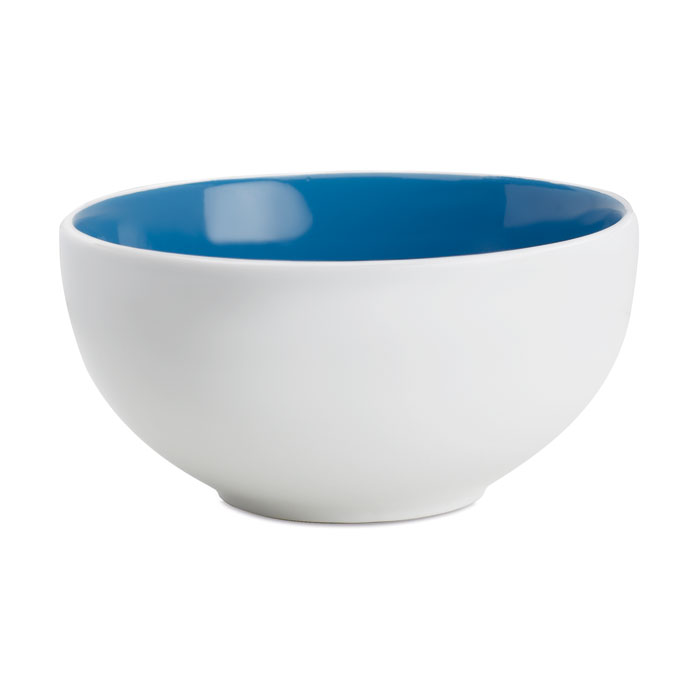
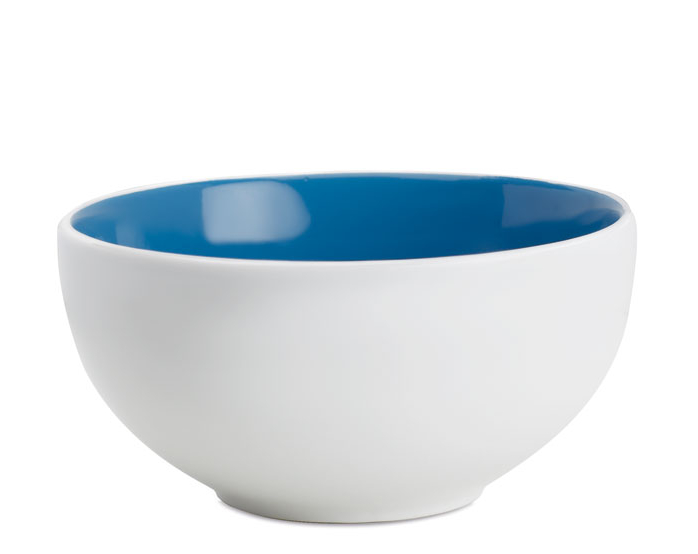
Nouvelles images, css jeu 2 pour bien voir les images. Jeu 1 ca passe sans et comme ca elles ont toutes la même forme

Changed region(s): [[0.0602, 0.2455, 0.9026, 0.9513]]

diff --git a/www/templates/secondGame.html b/www/templates/secondGame.html
@@ -39,7 +39,7 @@
         {{rooms[0].name}}
       </div>
       <div class="col col-33">
-        <div class="button button-block tile-image"
+        <div id="question-image" class="button button-block tile-image"
           ng-style="{'background-image':'url(img/'+question.image+')'}">
         </div>
       </div>

diff --git a/www/css/style.css b/www/css/style.css
@@ -204,3 +204,9 @@ span#questions-left {
   margin-top: 8px;
   margin-right: 85px;
 }
+
+#question-image {
+  background-size: auto 100%;
+  background-repeat: no-repeat;
+  background-color: #fff;
+}
